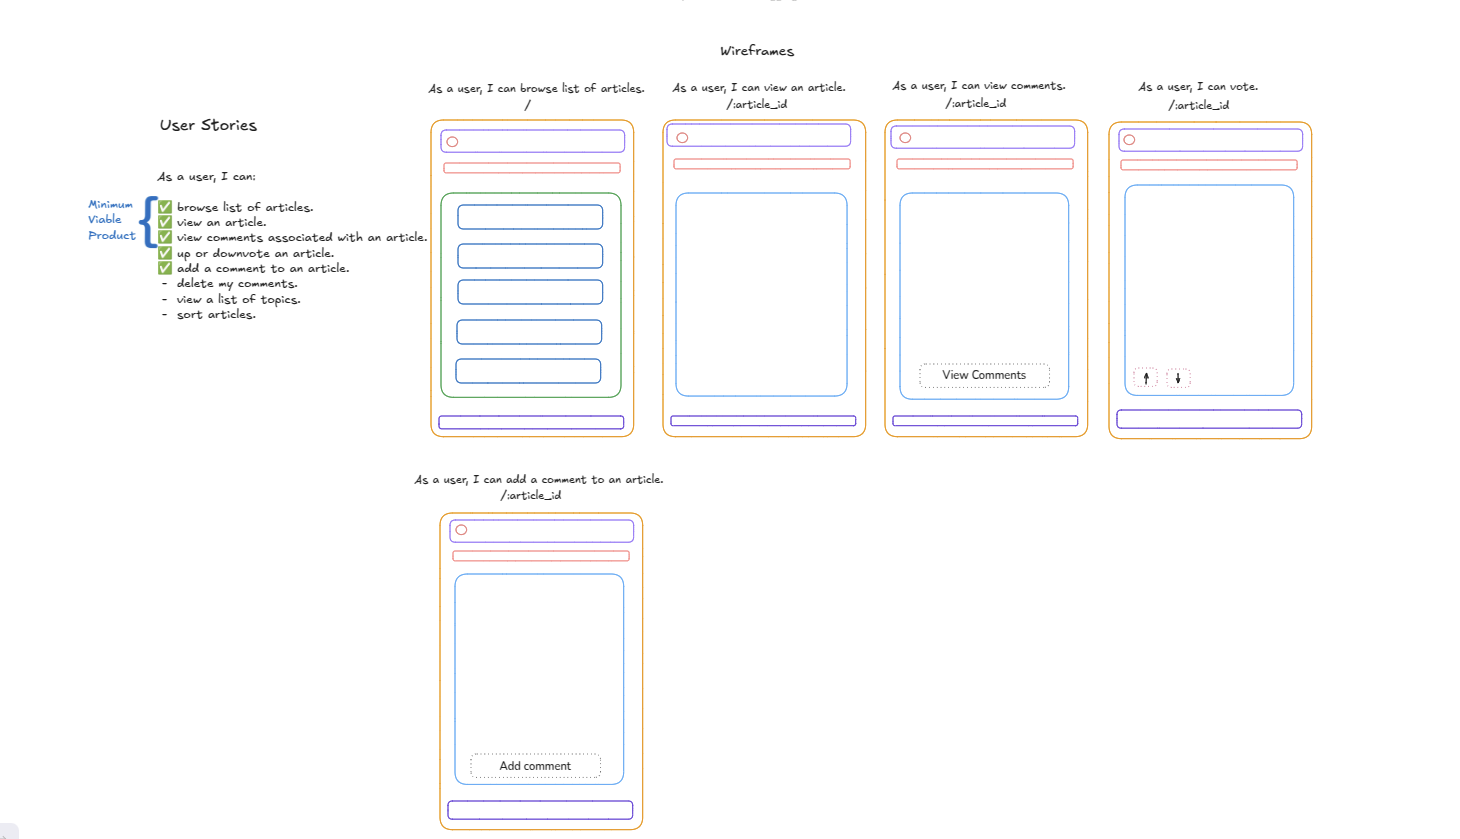
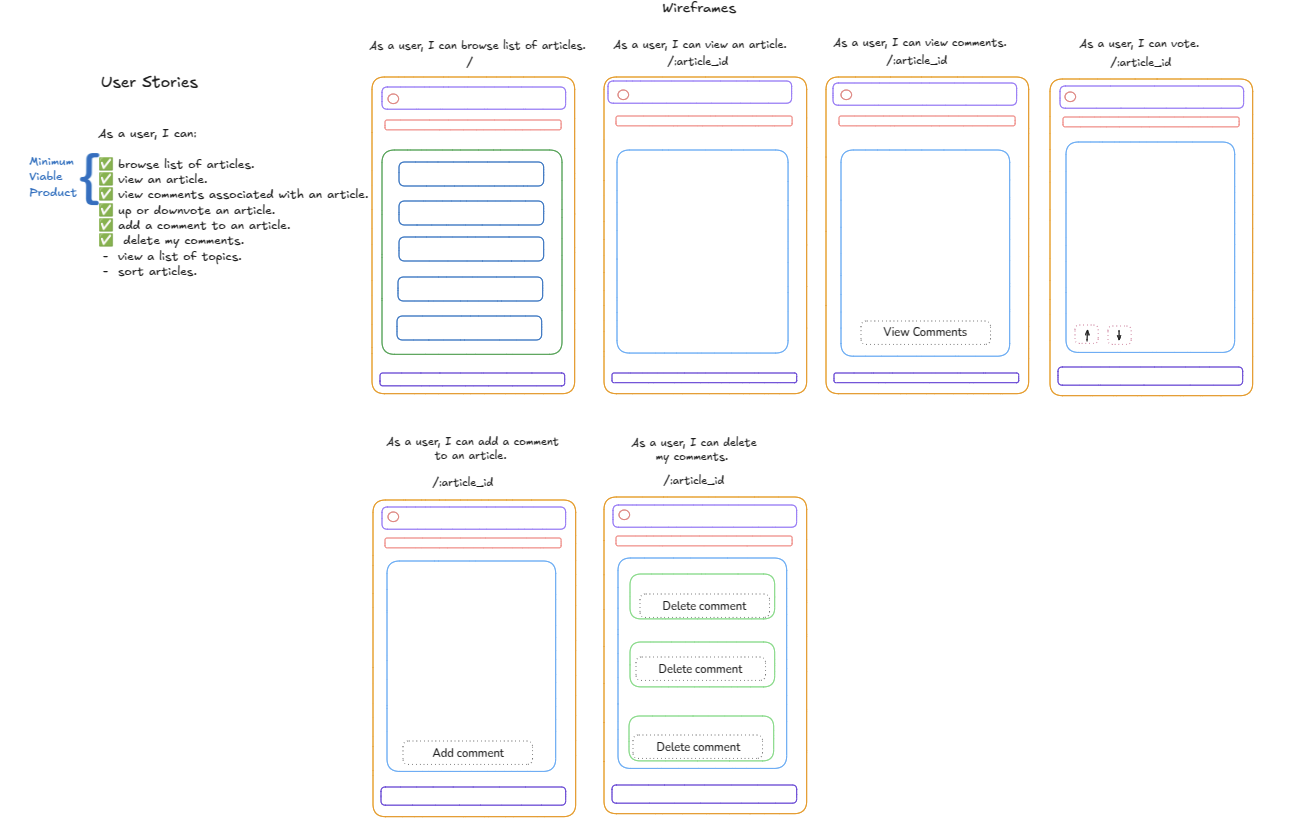
ticket-7-delete-comments

Changed region(s): [[0.0, 0.0, 0.9466, 0.9917]]

diff --git a/src/components/DeleteCommentHandler.jsx b/src/components/DeleteCommentHandler.jsx
@@ -1,0 +1,37 @@
+import { deleteComment } from "../api"
+import { useState, useEffect } from 'react';
+import { RingLoader } from 'react-spinners';
+
+
+const DeleteCommentHandler = ({comment}) => {
+
+  const [successfulDeleteMessage, setSuccessfulDeleteMessage] = useState(false)
+
+  // const [error, setError] = useState([false]);
+
+  // const [isLoading, setIsLoading] = useState([true]);
+
+  // console.log(comment.comment_id)
+
+  const deleteCurrentComment = () => {
+    // setIsLoading(true)
+    // setError(false)
+    deleteComment(comment.comment_id)
+    setSuccessfulDeleteMessage(true)
+  }
+
+  if (successfulDeleteMessage === true) return <p>Successfully deleted!</p>
+
+  // if (error) return <p>oops, something went wrong!</p>
+
+  // if (isLoading) return <RingLoader />
+
+
+  return (
+  <section>
+    <button onClick={deleteCurrentComment}>Delete Comment</button>
+  </section>
+  )
+}
+
+export default DeleteCommentHandler

diff --git a/src/components/CommentCard.jsx b/src/components/CommentCard.jsx
@@ -1,6 +1,24 @@
 import { reverseDate } from "../../utilityFunctions";
+import { useContext } from 'react';
+import { UserContext } from '../contexts/User'
+import DeleteCommentHandler from "./DeleteCommentHandler";
 
 function CommentCard({ comment }) {
+  const {loggedInUser} = useContext(UserContext)
+  if (loggedInUser === comment.author) {
+    return (
+      <>
+        <section className="comment-card">
+          <h4>{comment.author}</h4>
+          <p className="comment-body">{comment.body}</p>
+          <DeleteCommentHandler comment={comment}/>
+          <p className="comment-created-at">{comment.created_at.slice(11, -8)}     
+          {" on "}{reverseDate(comment.created_at)}</p>
+          <p className="comment-list-votes">Votes: {comment.votes}</p>
+        </section>
+      </>
+    )
+  }
 
   return (
     <>

diff --git a/src/components/App.jsx b/src/components/App.jsx
@@ -4,17 +4,20 @@ import Footer from './Footer';
 import ArticlesWrapper from './ArticlesWrapper';
 import ArticleBody from './ArticleBody';
 import { Routes, Route } from 'react-router-dom';
+import { UserProvider } from '../contexts/User';
 
 function App() {
 
   return (
     <>
-      <Header />
-        <Routes>
-          <Route path="/" element={<ArticlesWrapper />} />
-          <Route path="/articles/:id" element={<ArticleBody />} />
-        </Routes>
-      <Footer />
+      <UserProvider>
+        <Header />
+          <Routes>
+            <Route path="/" element={<ArticlesWrapper />} />
+            <Route path="/articles/:id" element={<ArticleBody />} />
+          </Routes>
+        <Footer />
+      </UserProvider>
     </>
   )
 }

diff --git a/src/components/PostCommentHandler.jsx b/src/components/PostCommentHandler.jsx
@@ -1,16 +1,11 @@
 import { postComment } from "../api";
-import { useState, useEffect } from 'react';
+import { useState } from 'react';
 
 const PostCommentHandler = ({  article_id }) => {
 
   const [commentInput, setCommentInput] = useState('');
 
   const [successfulCommentMessage, setSuccessfulCommentMessage] = useState(false)
-
-  // useEffect(() => {
-  //   setSuccessfulCommentMessage(false)
-  // })
-
 
   const handleChange = (event) => {
     // event.preventDefault();

diff --git a/src/api.js b/src/api.js
@@ -39,4 +39,16 @@ function postComment(id, commentInput) {
       })
 }
 
-export { getArticles, getArticleById, getComments, updateArticleVotesInc, updateArticleVotesDec, postComment };
+function deleteComment(id) {
+    return api.delete(`comments/${id}`)
+}
+
+export { 
+    getArticles, 
+    getArticleById, 
+    getComments, 
+    updateArticleVotesInc, 
+    updateArticleVotesDec, 
+    postComment,
+    deleteComment
+};

diff --git a/src/components/Header.jsx b/src/components/Header.jsx
@@ -1,8 +1,12 @@
 import Nav from './Nav';
+import { useContext } from 'react';
+import { UserContext } from '../contexts/User'
 
 function Header() {
+    const {loggedInUser} = useContext(UserContext) 
     return (
         <>
+            <p>Welcome: { loggedInUser }</p>
             <h1 className="header">NC News</h1>
                 <Nav />
         </>

diff --git a/src/contexts/User.jsx b/src/contexts/User.jsx
@@ -1,0 +1,8 @@
+import { createContext, useState } from 'react'
+
+export const UserContext = createContext();
+
+export const UserProvider = ({children}) => {
+  const [loggedInUser, setLoggedInUser] = useState("jessjelly")
+  return <UserContext.Provider value={{loggedInUser, setLoggedInUser}}>{ children }</UserContext.Provider>
+};

diff --git a/src/main.jsx b/src/main.jsx
@@ -2,6 +2,7 @@ import { createRoot } from 'react-dom/client'
 import './index.css'
 import App from './components/App.jsx'
 import { BrowserRouter } from 'react-router-dom'
+import { UserProvider } from './contexts/User'
 
 createRoot(document.getElementById('root')).render(
   <BrowserRouter>
